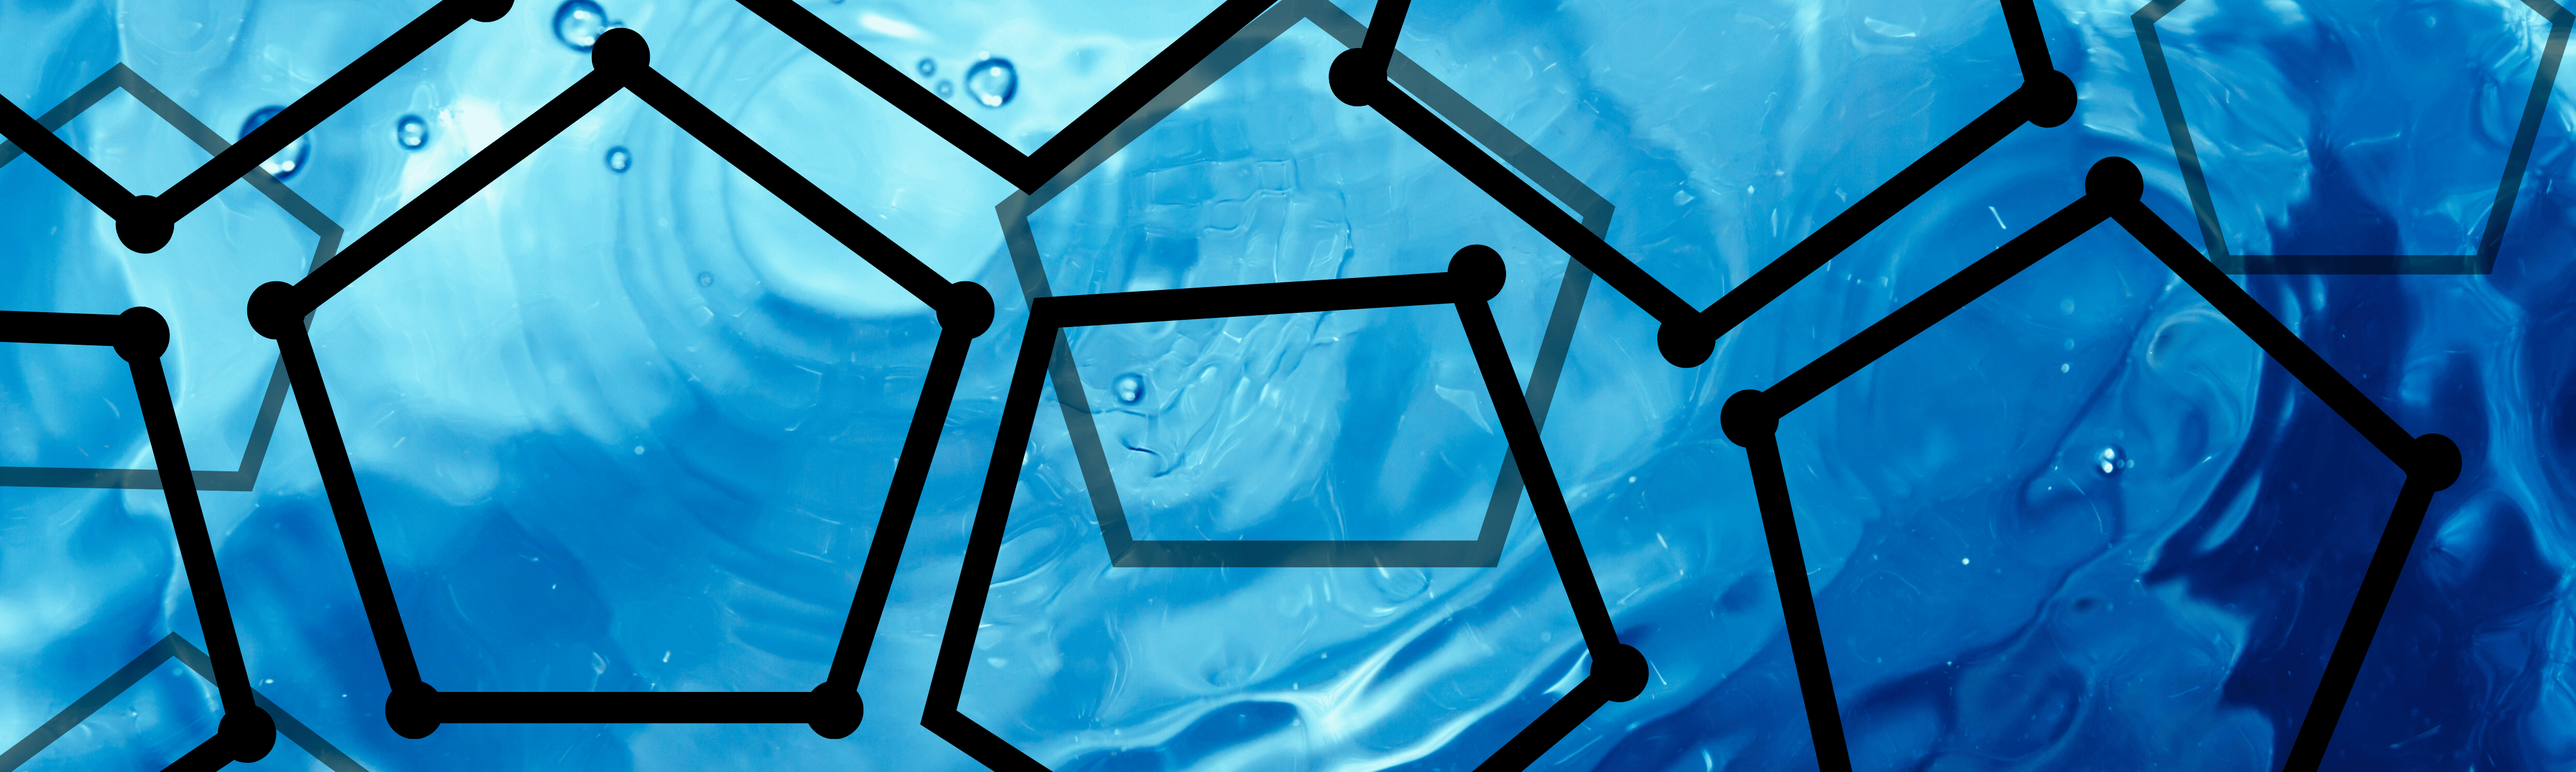
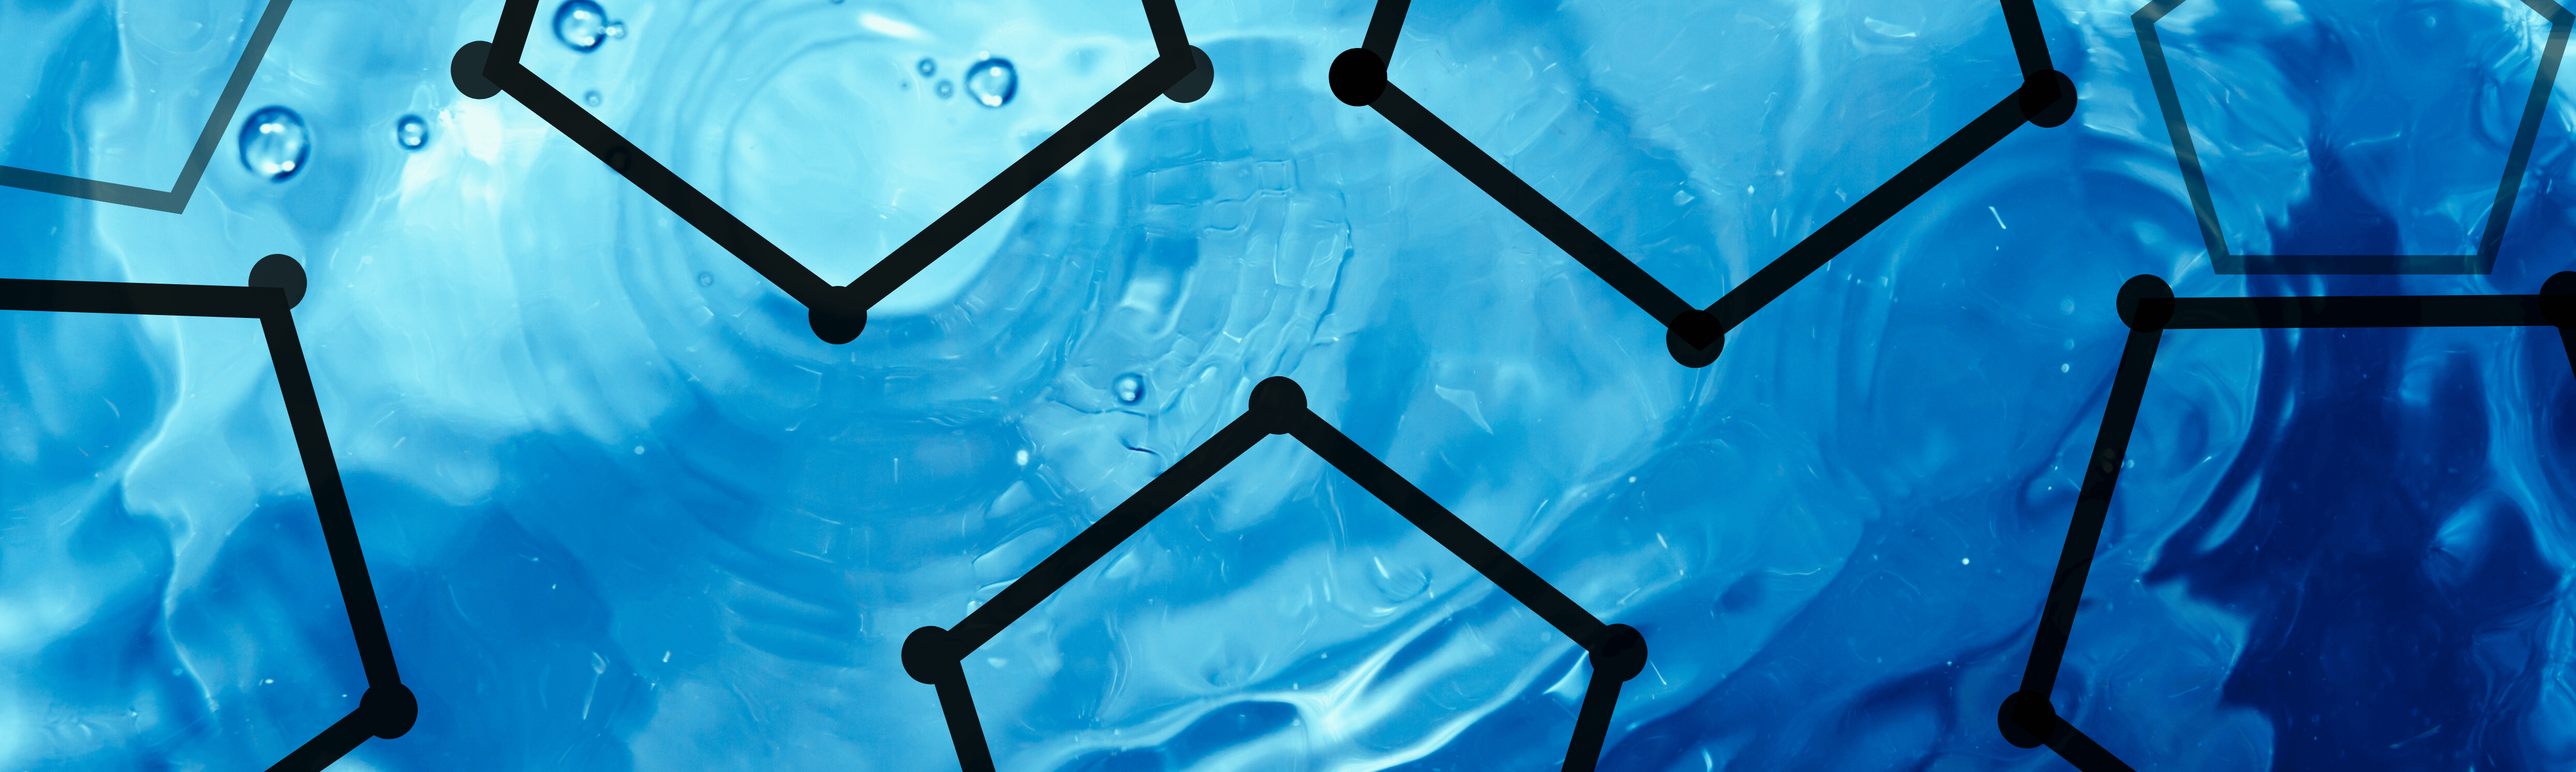
Titulos y demas

Changed region(s): [[0.0, 0.0, 1.0, 1.0], [0.5289, 0.0622, 0.6222, 0.3111], [0.56, 0.8711, 0.6533, 1.0]]

diff --git a/asesoria.html b/asesoria.html
@@ -64,6 +64,7 @@
         }
         .section-title h2 {
             color: var(--green);
+            text-align: left;
         }
 
         .servicios-grid {
@@ -79,7 +80,7 @@
             box-shadow: var(--shadow);
             transition: var(--transition);
             text-align: center;
-            padding: 10px;
+            padding: 10px 10px 20px 10px;
         }
 
         .servicio-card:hover {
@@ -90,7 +91,10 @@
         .servicio-card:hover h3{
             color: white;
         }
-
+        .servicio-card p{
+            padding: 0 20px;
+            text-align: justify;
+        }
         .servicio-icon {
             font-size: 3.5rem;
             color: var(--primary);
@@ -103,7 +107,7 @@
 
         .servicio-card h3 {
             font-size: 1.5rem;
-            margin-bottom: 20px;
+            margin-bottom: 5px;
         }
 
         /* Proceso */
@@ -121,7 +125,7 @@
 
         .step {
             flex: 1;
-            min-width: 250px;
+            min-width: 150px;
             max-width: 300px;
             text-align: center;
             position: relative;
@@ -154,6 +158,9 @@
             margin-bottom: 15px;
             color: var(--primary);
         }
+        .step p {
+            text-align: justify;
+        }
 
         .step:hover {
             transform: translateY(-10px);
@@ -168,7 +175,7 @@
         .imagenes-final {
             display: flex;
             justify-content: center;
-            gap: 85px; 
+            gap: 25vw; 
             padding: 20px;
             flex-wrap: wrap; 
             max-width: 100%;
@@ -359,28 +366,29 @@
             <div class="proceso-steps">
                 <div class="step">
                     <div class="step-number">1</div>
-                    <h3>Evaluación Inicial</h3>
-                    <p>Análisis detallado de tus necesidades y objetivos para entender el alcance del proyecto.</p>
+                    <h3>Evaluación preliminar</h3>
+                    <p>Análisis de necesidades y objetivos específicos para definir el alcance y parámetros del proyecto.</p>
                 </div>
                 <div class="step">
                     <div class="step-number">2</div>
                     <h3>Diagnóstico Técnico</h3>
-                    <p>Inspección de sistemas existentes y recopilación de datos para identificar áreas de mejora.</p>
+                    <p>Inspección de sistemas actuales y recopilación de datos para identificar las mejoras específicas.</p>
                 </div>
                 <div class="step">
                     <div class="step-number">3</div>
                     <h3>Desarrollo de Soluciones</h3>
-                    <p>Elaboración de propuestas técnicas con alternativas optimizadas para tu sistema.</p>
+                    <p>Elaboración de varias de propuestas y alternativas técnicas que garanticen mejoras al proyecto.</p>
                 </div>
                 <div class="step">
                     <div class="step-number">4</div>
-                    <h3>Implementación</h3>
-                    <p>Soporte durante la ejecución del proyecto y asesoramiento continuo durante la instalación.</p>
+                    <h3>Implementación Guiada</h3>
+                    <p>Soporte técnico durante la ejecución del proyecto y asesoramiento durante la instalación.</p>
                 </div>
                 <div class="step">
                     <div class="step-number">5</div>
-                    <h3>Seguimiento</h3>
-                    <p>Monitoreo post-implementación para asegurar el funcionamiento óptimo del sistema.</p>
+                    <h3>Seguimiento Continuo</h3>
+                    <p>Monitoreo continuo que asegura el rendimiento y funcionamiento óptimo del sistema.
+</p>
                 </div>
             </div>
         </div>
@@ -398,14 +406,14 @@
                         <i class="fas fa-tools"></i>
                     </div>
                     <h3>Diseño y Proyectos</h3>
-                    <p>Servicios de diseño especializado y desarrollo de proyectos a medida para aplicaciones industriales, comerciales y residenciales.</p>
+                    <p>Servicios de diseño desarrollo de proyectos a medida para diversar aplicaciones.</p>
                 </div>
                 <div class="servicio-card">
                     <div class="servicio-icon">
                         <i class="fas fa-search"></i>
                     </div>
                     <h3>Diagnóstico y Optimización</h3>
-                    <p>Análisis profesional y mejora de sistemas existentes para maximizar su rendimiento y eficiencia.</p>
+                    <p>Análisis profesional y mejora de sistemas existentes para maximizar su rendimiento.</p>
                 </div>
                 <div class="servicio-card">
                     <div class="servicio-icon">
